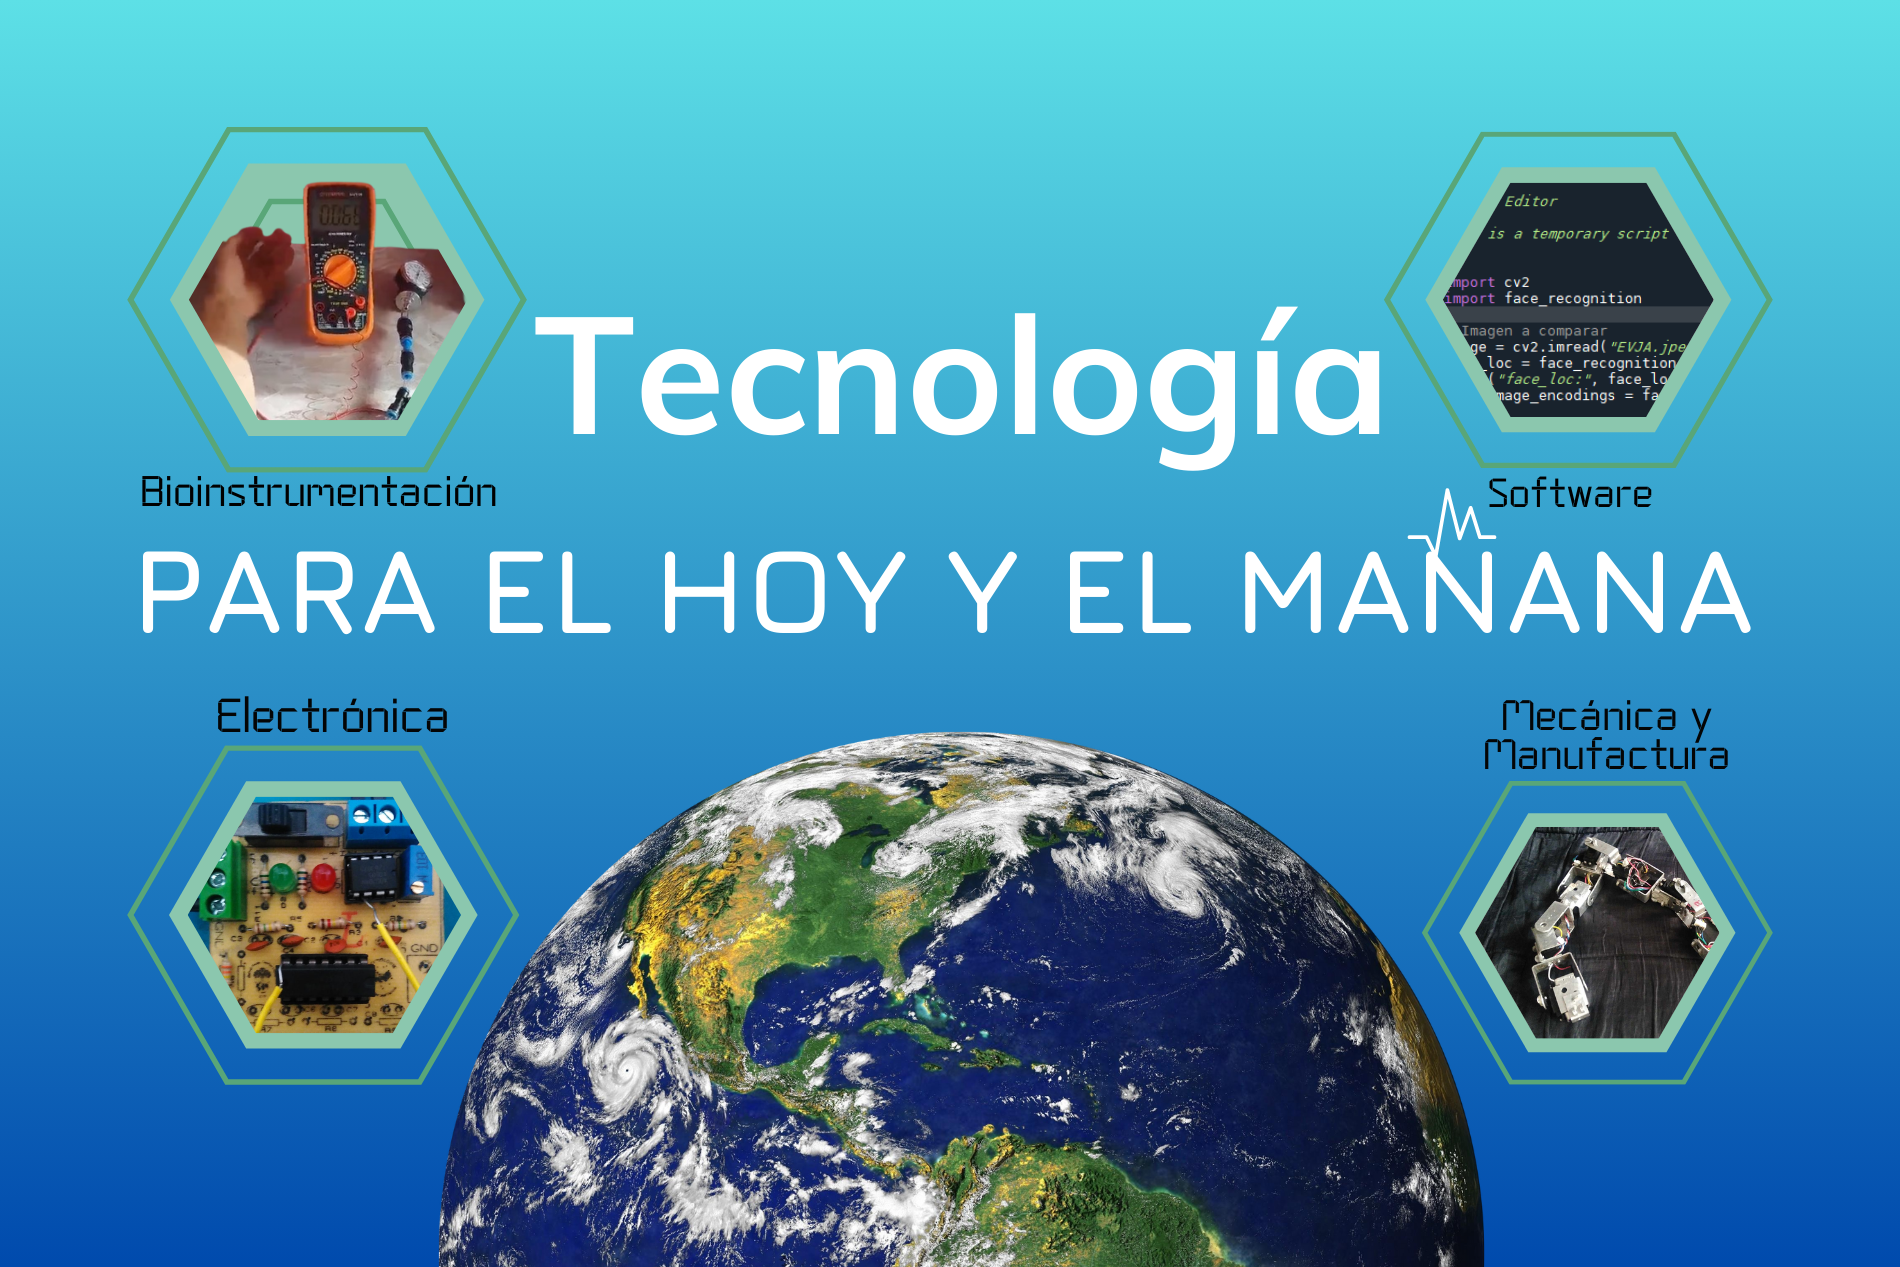
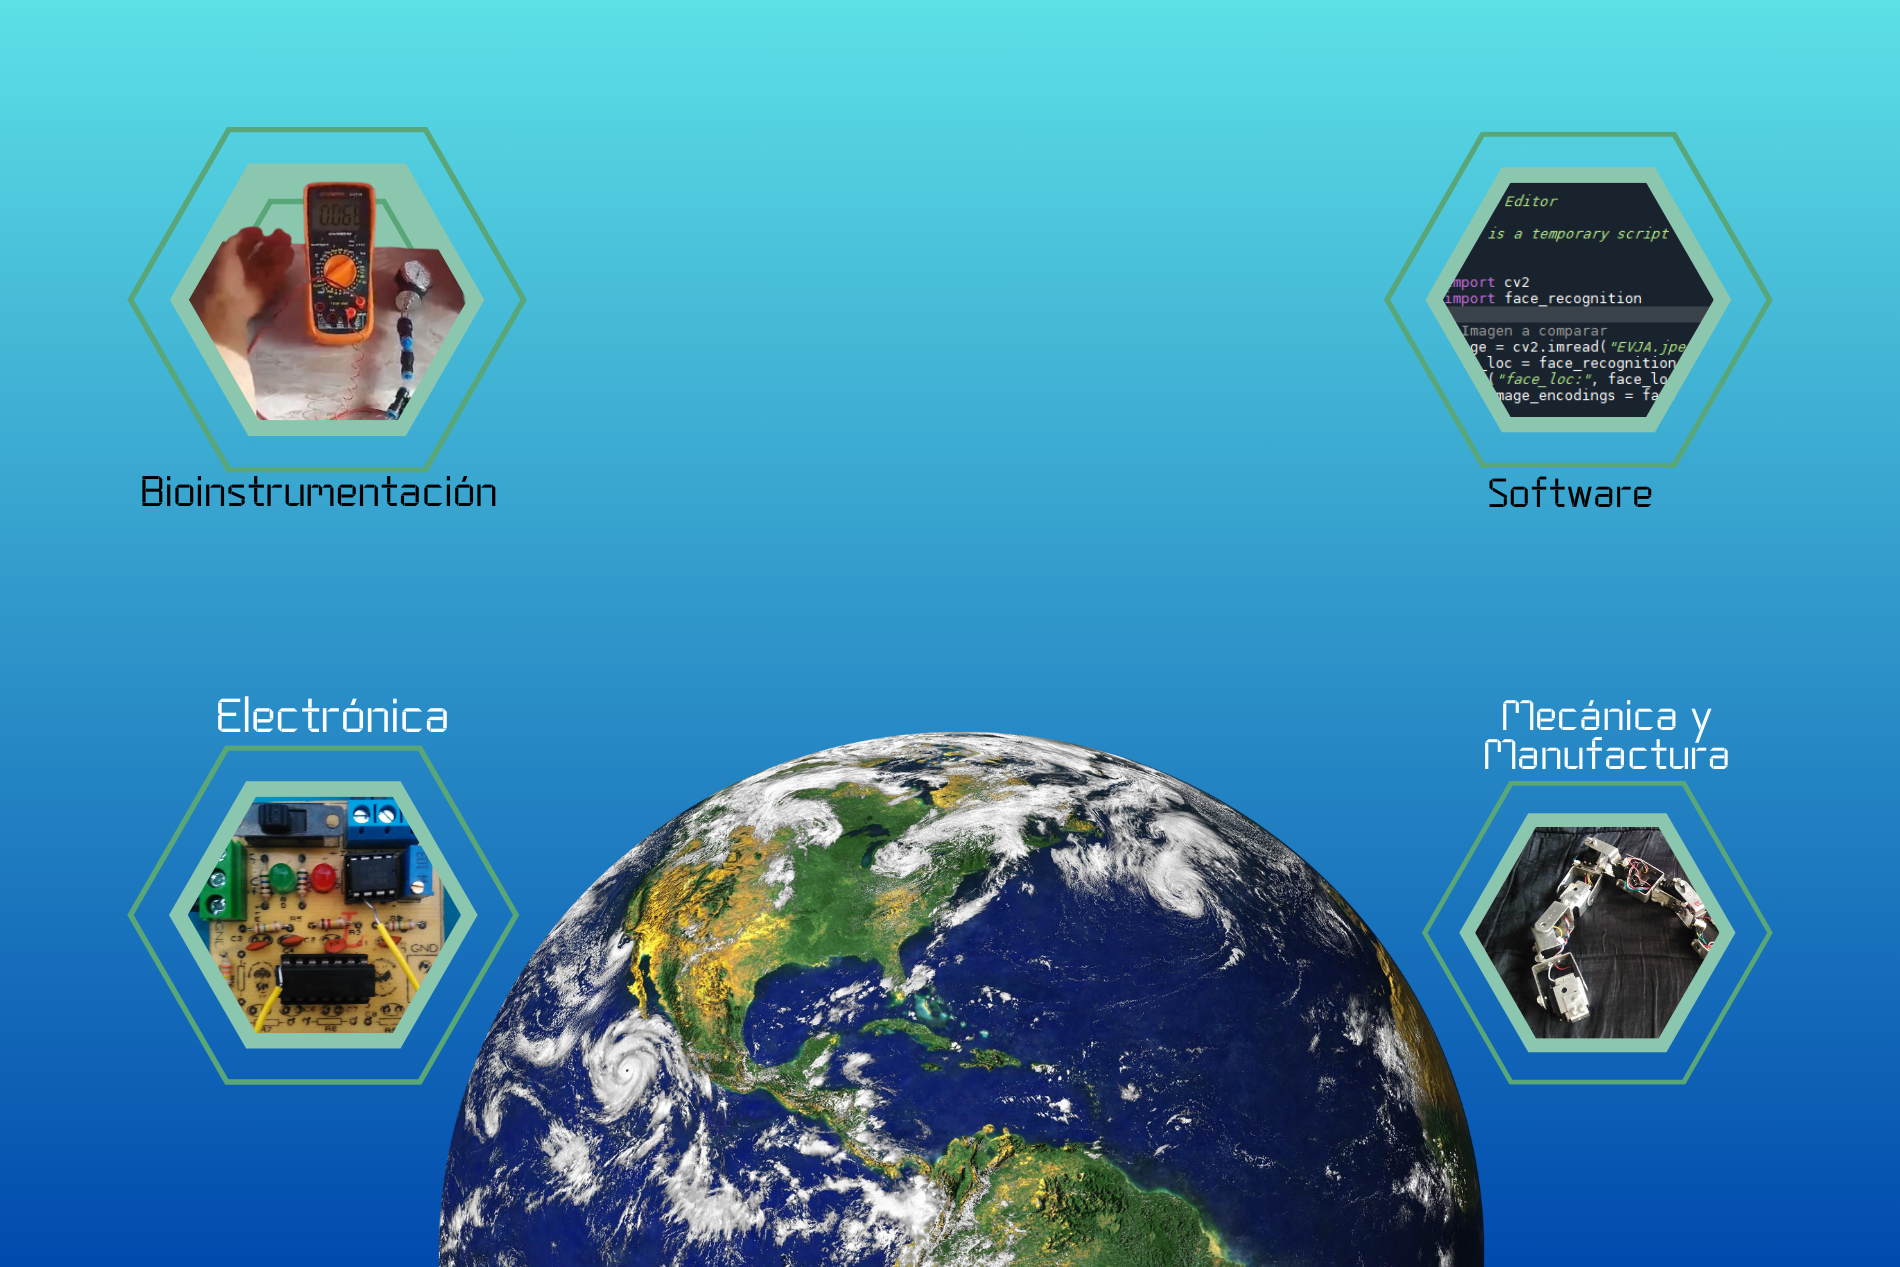
Add files via upload

diff --git a/index.html b/index.html
@@ -28,7 +28,9 @@
                 <div class="collapse navbar-collapse" id="navbarResponsive">
                     <ul class="navbar-nav ms-auto my-2 my-lg-0">
                         <li class="nav-item"><a class="nav-link" href="#about">About</a></li>
+                        <!--
                         <li class="nav-item"><a class="nav-link" href="#services">Services</a></li>
+                        -->
                         <li class="nav-item"><a class="nav-link" href="#portfolio">Portfolio</a></li>
                         <li class="nav-item"><a class="nav-link" href="#contact">Contact</a></li>
                     </ul>
@@ -40,12 +42,12 @@
             <div class="container px-4 px-lg-5 h-100">
                 <div class="row gx-4 gx-lg-5 h-100 align-items-center justify-content-center text-center">
                     <div class="col-lg-8 align-self-end">
-                        <h1 class="text-white font-weight-bold">El lugar correcto para el desarrollo de sus ideas</h1>
+                        <h1 class="text-white font-weight-bold">Tecnología para el hoy y el mañana</h1>
                         <hr class="divider" />
                     </div>
                     <div class="col-lg-8 align-self-baseline">
-                        <p class="text-white-75 mb-5">Soluciones en electrónica, mecánica y programación para tecnología enfocada al desarrollo sostenible.</p>
-                        <a class="btn btn-primary btn-xl" href="#about">Find Out More</a>
+                        <p class="text-white-75 mb-5">Soluciones en bioinstrumentación, electrónica, mecánica y programación para tecnología enfocada al desarrollo sostenible.</p>
+                        <a class="btn btn-primary btn-xl" href="#about">Descubra más</a>
                     </div>
                 </div>
             </div>
@@ -55,10 +57,10 @@
             <div class="container px-4 px-lg-5">
                 <div class="row gx-4 gx-lg-5 justify-content-center">
                     <div class="col-lg-8 text-center">
-                        <h2 class="text-white mt-0">We've got what you need!</h2>
+                        <h2 class="text-white mt-0">¡Tenemos lo que necesitas!</h2>
                         <hr class="divider divider-light" />
-                        <p class="text-white-75 mb-4">Start Bootstrap has everything you need to get your new website up and running in no time! Choose one of our open source, free to download, and easy to use themes! No strings attached!</p>
-                        <a class="btn btn-light btn-xl" href="#services">Get Started!</a>
+                        <p class="text-white-75 mb-4">TFG busca brindar soluciones en bioinstrumentación, electrónica, mecánica y programación para tecnología enfocada al desarrollo sostenible de cara a brindar un mejor panorama a nuestro entorno y al de aquellos que vienen después de nosotros.</p>
+                        <a class="btn btn-light btn-xl" href="#portfolio">¡Empiece ya!</a> <!-- services-->
                     </div>
                 </div>
             </div>
@@ -109,43 +111,45 @@
         <!-- Portfolio-->
         <div id="portfolio">
             <div class="container-fluid p-0">
+                <!---->
                 <div class="row g-0">
-                    <div class="col-lg-4 col-sm-6">
-                        <a class="portfolio-box" href="assets/img/portfolio/fullsize/1.jpg" title="Project Name">
-                            <img class="img-fluid" src="assets/img/portfolio/thumbnails/1.jpg" alt="..." />
+                    <div class="col-lg-6 col-sm-6"> <!-- -lg-4 -->
+                        <a class="portfolio-box" href="assets/img/portfolio/fullsize/Biointrumentation.png" title="Bioinstrumentación">
+                            <img class="img-fluid" src="assets/img/portfolio/thumbnails/Biointrumentation.png" alt="..." />
                             <div class="portfolio-box-caption">
                                 <div class="project-category text-white-50">Category</div>
-                                <div class="project-name">Project Name</div>
+                                <div class="project-name">Bioinstrumentación</div>
                             </div>
                         </a>
                     </div>
-                    <div class="col-lg-4 col-sm-6">
-                        <a class="portfolio-box" href="assets/img/portfolio/fullsize/2.jpg" title="Project Name">
-                            <img class="img-fluid" src="assets/img/portfolio/thumbnails/2.jpg" alt="..." />
+                    <div class="col-lg-6 col-sm-6"> <!-- -lg-4 col-sm-6-->
+                        <a class="portfolio-box" href="assets/img/portfolio/fullsize/Electronic.png" title="Electrónica">
+                            <img class="img-fluid" src="assets/img/portfolio/thumbnails/Electronic.png" alt="..." />
                             <div class="portfolio-box-caption">
                                 <div class="project-category text-white-50">Category</div>
-                                <div class="project-name">Project Name</div>
+                                <div class="project-name">Electrónica</div>
                             </div>
                         </a>
                     </div>
-                    <div class="col-lg-4 col-sm-6">
-                        <a class="portfolio-box" href="assets/img/portfolio/fullsize/3.jpg" title="Project Name">
-                            <img class="img-fluid" src="assets/img/portfolio/thumbnails/3.jpg" alt="..." />
+                    <div class="col-lg-6 col-sm-6"> <!-- -lg-4 col-sm-6-->
+                        <a class="portfolio-box" href="assets/img/portfolio/fullsize/Mecanic.png" title="Mecánica">
+                            <img class="img-fluid" src="assets/img/portfolio/thumbnails/Mecanic.png" alt="..." />
                             <div class="portfolio-box-caption">
                                 <div class="project-category text-white-50">Category</div>
-                                <div class="project-name">Project Name</div>
+                                <div class="project-name">Mecánica</div>
                             </div>
                         </a>
                     </div>
-                    <div class="col-lg-4 col-sm-6">
-                        <a class="portfolio-box" href="assets/img/portfolio/fullsize/4.jpg" title="Project Name">
-                            <img class="img-fluid" src="assets/img/portfolio/thumbnails/4.jpg" alt="..." />
+                    <div class="col-lg-6 col-sm-6"> <!-- -lg-4 col-sm-6-->
+                        <a class="portfolio-box" href="assets/img/portfolio/fullsize/Software.png" title="Software">
+                            <img class="img-fluid" src="assets/img/portfolio/thumbnails/Software.png" alt="..." />
                             <div class="portfolio-box-caption">
                                 <div class="project-category text-white-50">Category</div>
-                                <div class="project-name">Project Name</div>
+                                <div class="project-name">Software</div>
                             </div>
                         </a>
                     </div>
+                    <!--
                     <div class="col-lg-4 col-sm-6">
                         <a class="portfolio-box" href="assets/img/portfolio/fullsize/5.jpg" title="Project Name">
                             <img class="img-fluid" src="assets/img/portfolio/thumbnails/5.jpg" alt="..." />
@@ -164,6 +168,7 @@
                             </div>
                         </a>
                     </div>
+                    -->
                 </div>
             </div>
         </div>
